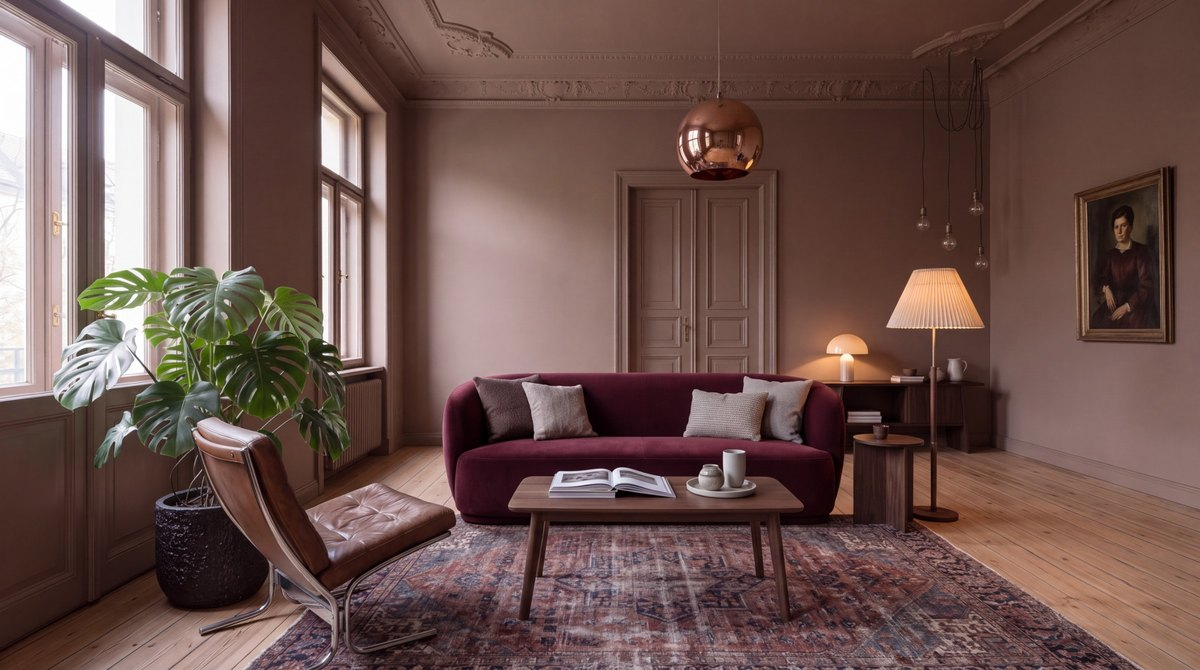
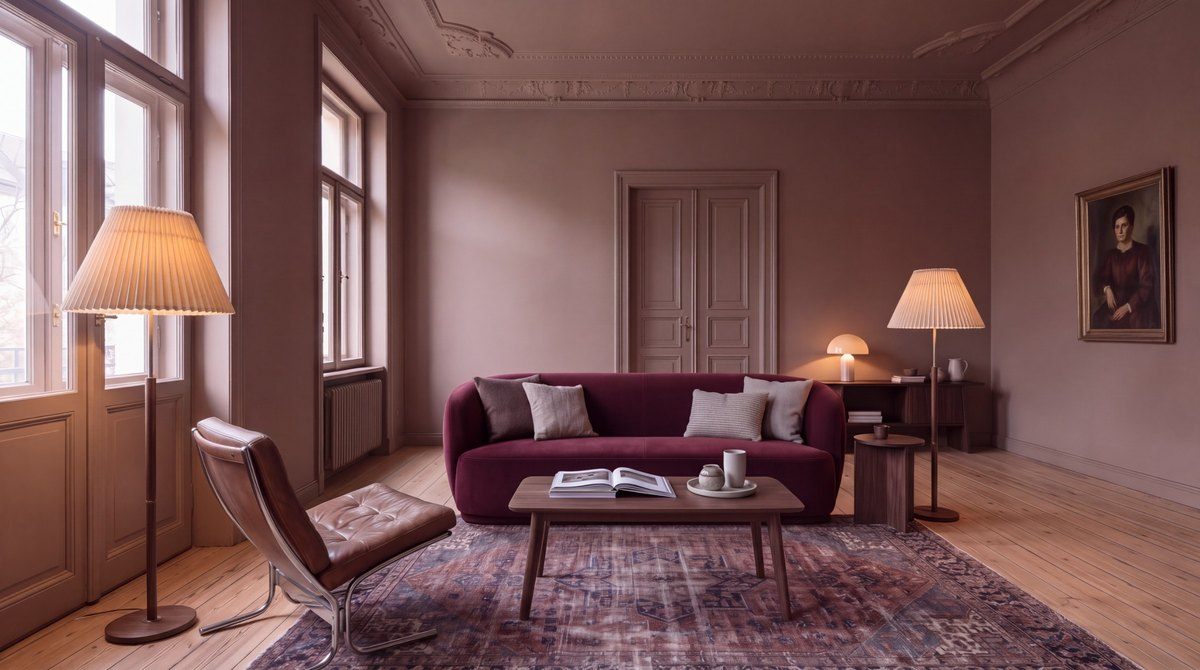
Magazin: Jahrzehnte-2026- und Weihnachten-Bild nachgebessert
Claude-Session: https://claude.ai/code/session_01LahaRAnpmdkz9wijRiE1rf

diff --git a/magazin/weihnachtlich-dekorieren-ohne-kitsch/index.html b/magazin/weihnachtlich-dekorieren-ohne-kitsch/index.html
@@ -12,7 +12,7 @@
 <meta property="og:title" content="Weihnachtlich dekorieren ohne Kitsch">
 <meta property="og:description" content="Gleicher Raum, gleiches Sofa, gleicher Baum in der Ecke. Nur ist es jetzt kein Lager für Weihnachtsdeko mehr, sondern ein Ort für lange Abende.">
 <meta property="og:url" content="https://www.faindz.de/magazin/weihnachtlich-dekorieren-ohne-kitsch/">
-<meta property="og:image" content="https://www.faindz.de/magazin/img/weihnachten-og.jpg?v=hq2">
+<meta property="og:image" content="https://www.faindz.de/magazin/img/weihnachten-og.jpg?v=hq3">
 <meta name="twitter:card" content="summary_large_image">
 <link rel="icon" href="/favicon.ico" sizes="48x48">
 <link rel="icon" type="image/png" sizes="192x192" href="/favicon-192.png">
@@ -21,7 +21,7 @@
 <link rel="preconnect" href="https://fonts.gstatic.com" crossorigin>
 <link href="https://fonts.googleapis.com/css2?family=Inter:wght@300;400;500;600;700;800&family=JetBrains+Mono:wght@400;500&family=Fraunces:opsz,wght,SOFT@9..144,300;9..144,400;9..144,500;9..144,600&display=swap" rel="stylesheet">
 <link rel="stylesheet" href="/magazin/magazin.css?v=20261112a">
-<link rel="preload" as="image" href="/magazin/img/weihnachten-nachher-2400.jpg?v=hq2" imagesrcset="/magazin/img/weihnachten-nachher-1200.jpg?v=hq2 1200w, /magazin/img/weihnachten-nachher-2400.jpg?v=hq2 2400w" imagesizes="100vw">
+<link rel="preload" as="image" href="/magazin/img/weihnachten-nachher-2400.jpg?v=hq3" imagesrcset="/magazin/img/weihnachten-nachher-1200.jpg?v=hq3 1200w, /magazin/img/weihnachten-nachher-2400.jpg?v=hq3 2400w" imagesizes="100vw">
 <script type="application/ld+json">
 {
   "@context": "https://schema.org",
@@ -29,9 +29,9 @@
   "headline": "Weihnachtlich dekorieren ohne Kitsch",
   "description": "Weihnachtsdeko, die gemütlich wirkt statt überladen: warmweißes Licht, zwei Farben, Zweige statt Figuren. Mit Vorher-Nachher und einer Kurzfassung.",
   "image": [
-    "https://www.faindz.de/magazin/img/weihnachten-nachher-2400.jpg?v=hq2",
+    "https://www.faindz.de/magazin/img/weihnachten-nachher-2400.jpg?v=hq3",
     "https://www.faindz.de/magazin/img/weihnachten-vorher-2400.jpg?v=hq2",
-    "https://www.faindz.de/magazin/img/weihnachten-og.jpg?v=hq2"
+    "https://www.faindz.de/magazin/img/weihnachten-og.jpg?v=hq3"
   ],
   "datePublished": "2026-11-24",
   "dateModified": "2026-11-24",
@@ -68,12 +68,12 @@
   <div class="swipe" aria-label="Vorher und Nachher, zum Wechseln wischen">
     <div class="swipe-track">
       <figure class="swipe-slide before-slide"><img src="/magazin/img/weihnachten-vorher-1200.jpg?v=hq2" alt="Vorher: Wohnzimmer mit bunten Lichterketten, Lametta, rotem Tischtuch, Plastik-Weihnachtsmann, Rentierkissen und einem überladenen rot-goldenen Baum unter grellem Deckenlicht" width="1200" height="670" loading="lazy"><figcaption class="swipe-tag">Vorher</figcaption></figure>
-      <figure class="swipe-slide after"><img src="/magazin/img/weihnachten-nachher-1200.jpg?v=hq2" alt="Nachher: dasselbe Wohnzimmer mit schlankem Baum in einem Korb, nur warmweißen Lichtern, Kerzen auf einem Holztablett, Tannenzweigen in einer Glasvase und Leinenkissen in Creme, Salbei und Rost" width="1200" height="670" loading="lazy"><figcaption class="swipe-tag">Nachher</figcaption></figure>
+      <figure class="swipe-slide after"><img src="/magazin/img/weihnachten-nachher-1200.jpg?v=hq3" alt="Nachher: dasselbe Wohnzimmer mit schlankem Baum in einem Korb, nur warmweißen Lichtern, Kerzen auf einem Holztablett, Tannenzweigen in einer Glasvase und Leinenkissen in Creme, Salbei und Rost" width="1200" height="670" loading="lazy"><figcaption class="swipe-tag">Nachher</figcaption></figure>
     </div>
     <div class="swipe-nav"><button type="button" aria-pressed="true" data-i="0">Vorher</button><button type="button" aria-pressed="false" data-i="1">Nachher</button></div>
   </div>
   <section class="cover" data-cover aria-label="Vorher-Nachher-Vergleich">
-    <img src="/magazin/img/weihnachten-nachher-2400.jpg?v=hq2" srcset="/magazin/img/weihnachten-nachher-1200.jpg?v=hq2 1200w, /magazin/img/weihnachten-nachher-2400.jpg?v=hq2 2400w" sizes="100vw" alt="Nachher: dasselbe Wohnzimmer mit schlankem Baum in einem Korb, nur warmweißen Lichtern, Kerzen auf einem Holztablett, Tannenzweigen in einer Glasvase und Leinenkissen in Creme, Salbei und Rost" width="2400" height="1340">
+    <img src="/magazin/img/weihnachten-nachher-2400.jpg?v=hq3" srcset="/magazin/img/weihnachten-nachher-1200.jpg?v=hq3 1200w, /magazin/img/weihnachten-nachher-2400.jpg?v=hq3 2400w" sizes="100vw" alt="Nachher: dasselbe Wohnzimmer mit schlankem Baum in einem Korb, nur warmweißen Lichtern, Kerzen auf einem Holztablett, Tannenzweigen in einer Glasvase und Leinenkissen in Creme, Salbei und Rost" width="2400" height="1340">
     <img class="before" src="/magazin/img/weihnachten-vorher-2400.jpg?v=hq2" srcset="/magazin/img/weihnachten-vorher-1200.jpg?v=hq2 1200w, /magazin/img/weihnachten-vorher-2400.jpg?v=hq2 2400w" sizes="100vw" alt="Vorher: Wohnzimmer mit bunten Lichterketten, Lametta, rotem Tischtuch, Plastik-Weihnachtsmann, Rentierkissen und einem überladenen rot-goldenen Baum unter grellem Deckenlicht" width="2400" height="1340">
     <div class="cover-line" aria-hidden="true"></div>
     <input class="cover-range" type="range" min="0" max="100" value="50" aria-label="Vorher-Nachher-Regler">
@@ -238,7 +238,7 @@
   </div>
 
   <section class="try" aria-labelledby="try-title">
-    <img src="/magazin/img/weihnachten-nachher-1200.jpg?v=hq2" alt="" width="1200" height="670" loading="lazy">
+    <img src="/magazin/img/weihnachten-nachher-1200.jpg?v=hq3" alt="" width="1200" height="670" loading="lazy">
     <div class="wrap">
       <h2 id="try-title">Wie sähe das bei dir aus?</h2>
       <p>Wie sähe dein Wohnzimmer weihnachtlich aus? Lade ein Foto hoch und probier es aus.</p>

diff --git a/magazin/wohnzimmer-1980-bis-2026/index.html b/magazin/wohnzimmer-1980-bis-2026/index.html
@@ -12,7 +12,7 @@
 <meta property="og:title" content="Ein Wohnzimmer, 46 Jahre">
 <meta property="og:description" content="Derselbe Raum von den 80ern bis 2026. Was jede Ära ausgemacht hat und was davon heute zurück ist.">
 <meta property="og:url" content="https://www.faindz.de/magazin/wohnzimmer-1980-bis-2026/">
-<meta property="og:image" content="https://www.faindz.de/magazin/img/jahrzehnte-og.jpg?v=hq2">
+<meta property="og:image" content="https://www.faindz.de/magazin/img/jahrzehnte-og.jpg?v=hq3">
 <meta name="twitter:card" content="summary_large_image">
 <link rel="icon" href="/favicon.ico" sizes="48x48">
 <link rel="icon" type="image/png" sizes="192x192" href="/favicon-192.png">
@@ -28,7 +28,7 @@
   "@type": "Article",
   "headline": "Ein Wohnzimmer, 46 Jahre: Interior Design von 1980 bis 2026",
   "description": "Derselbe Raum, eingerichtet wie in den 80ern, 90ern, 2000ern, 2010ern, den frühen 2020ern und 2026. Was jede Ära ausgemacht hat und was davon heute wieder zurück ist.",
-  "image": ["https://www.faindz.de/magazin/img/jahrzehnte-1980-2400.jpg?v=hq2", "https://www.faindz.de/magazin/img/jahrzehnte-2026-2400.jpg?v=hq2", "https://www.faindz.de/magazin/img/jahrzehnte-og.jpg?v=hq2"],
+  "image": ["https://www.faindz.de/magazin/img/jahrzehnte-1980-2400.jpg?v=hq2", "https://www.faindz.de/magazin/img/jahrzehnte-2026-2400.jpg?v=hq3", "https://www.faindz.de/magazin/img/jahrzehnte-og.jpg?v=hq3"],
   "datePublished": "2026-10-29",
   "dateModified": "2026-10-29",
   "inLanguage": "de-DE",
@@ -60,7 +60,7 @@
       <img data-era="2000" src="/magazin/img/jahrzehnte-2000-1200.jpg?v=hq2" srcset="/magazin/img/jahrzehnte-2000-1200.jpg?v=hq2 1200w, /magazin/img/jahrzehnte-2000-2400.jpg?v=hq2 2400w" sizes="100vw" alt="Das Wohnzimmer in den 2000ern: schokobraune Wand, Wenge-Boden, cremefarbenes Ledersofa, Hochflorteppich, Buddha und Bambus" width="2400" height="1757" loading="lazy">
       <img data-era="2010" src="/magazin/img/jahrzehnte-2010-1200.jpg?v=hq2" srcset="/magazin/img/jahrzehnte-2010-1200.jpg?v=hq2 1200w, /magazin/img/jahrzehnte-2010-2400.jpg?v=hq2 2400w" sizes="100vw" alt="Das Wohnzimmer in den 2010ern: weiße Wände, graues Skandi-Sofa, karierte Kissen, Schalenstuhl, Kupferleuchte, Monstera" width="2400" height="1757" loading="lazy">
       <img data-era="2020" src="/magazin/img/jahrzehnte-2020-1200.jpg?v=hq2" srcset="/magazin/img/jahrzehnte-2020-1200.jpg?v=hq2 1200w, /magazin/img/jahrzehnte-2020-2400.jpg?v=hq2 2400w" sizes="100vw" alt="Das Wohnzimmer Anfang der 2020er: geschwungenes Bouclé-Sofa, salbeigrüner Bogen an der Wand, Travertintisch, Pampasgras" width="2400" height="1757" loading="lazy">
-      <img data-era="2026" src="/magazin/img/jahrzehnte-2026-1200.jpg?v=hq2" srcset="/magazin/img/jahrzehnte-2026-1200.jpg?v=hq2 1200w, /magazin/img/jahrzehnte-2026-2400.jpg?v=hq2 2400w" sizes="100vw" alt="Das Wohnzimmer 2026: mokkabraune Wände, Samtsofa in Bordeaux, Vintage-Ledersessel mit Chrom, Nussbaumtisch, Vintage-Teppich" width="2400" height="1757" loading="lazy">
+      <img data-era="2026" src="/magazin/img/jahrzehnte-2026-1200.jpg?v=hq3" srcset="/magazin/img/jahrzehnte-2026-1200.jpg?v=hq3 1200w, /magazin/img/jahrzehnte-2026-2400.jpg?v=hq3 2400w" sizes="100vw" alt="Das Wohnzimmer 2026: mokkabraune Wände, Samtsofa in Bordeaux, Vintage-Ledersessel mit Chrom, Nussbaumtisch, Vintage-Teppich" width="2400" height="1757" loading="lazy">
       <span class="era-year" aria-live="polite">80er</span>
     </div>
     <div class="era-text">
@@ -208,7 +208,7 @@
       <p>Holz wird wieder dunkler: Nussbaum statt heller Eiche. Möbel sind weiterhin rund und niedrig, aber gern mit Vintage-Charakter. Ein Ledersessel mit Chromgestell, ein alter Orientteppich, ein Ölbild aus dem Second-Hand-Laden. Der Raum soll aussehen, als sei er über Jahre gewachsen, nicht an einem Nachmittag bestellt. Weniger, aber bessere Stücke ist der Gedanke dahinter.</p>
     </div>
     <figure class="era-fig">
-      <img src="/magazin/img/jahrzehnte-2026-1200.jpg?v=hq2" srcset="/magazin/img/jahrzehnte-2026-1200.jpg?v=hq2 1200w, /magazin/img/jahrzehnte-2026-2400.jpg?v=hq2 2400w" sizes="(max-width: 1000px) 100vw, 1000px" alt="Das Wohnzimmer 2026: mokkabraune Wände, Samtsofa in Bordeaux, Vintage-Ledersessel mit Chrom, Nussbaumtisch, Vintage-Teppich" width="2400" height="1757" loading="lazy">
+      <img src="/magazin/img/jahrzehnte-2026-1200.jpg?v=hq3" srcset="/magazin/img/jahrzehnte-2026-1200.jpg?v=hq3 1200w, /magazin/img/jahrzehnte-2026-2400.jpg?v=hq3 2400w" sizes="(max-width: 1000px) 100vw, 1000px" alt="Das Wohnzimmer 2026: mokkabraune Wände, Samtsofa in Bordeaux, Vintage-Ledersessel mit Chrom, Nussbaumtisch, Vintage-Teppich" width="2400" height="1757" loading="lazy">
       <figcaption>2026: mokkabraune Wände, Samtsofa in Bordeaux, Vintage-Ledersessel mit Chrom, Nussbaum und ein alter Teppich.</figcaption>
     </figure>
     <div class="prose">
@@ -330,7 +330,7 @@
   </div>
 
   <section class="try" aria-labelledby="try-title">
-    <img src="/magazin/img/jahrzehnte-2026-1200.jpg?v=hq2" alt="" width="1200" height="879" loading="lazy">
+    <img src="/magazin/img/jahrzehnte-2026-1200.jpg?v=hq3" alt="" width="1200" height="879" loading="lazy">
     <div class="wrap">
       <h2 id="try-title">Welche Epoche steckt in deinem Raum?</h2>
       <p>Foto hochladen, Stil wählen, fertig. Du siehst dein Wohnzimmer neu eingerichtet, mit passenden Produkten.</p>

diff --git a/magazin/index.html b/magazin/index.html
@@ -72,7 +72,7 @@
     <h2 id="articles-title">Alle Artikel</h2>
     <div class="card-grid">
       <a class="card" href="/magazin/weihnachtlich-dekorieren-ohne-kitsch/">
-        <img src="/magazin/img/weihnachten-nachher-1200.jpg?v=hq2" alt="Wohnzimmer mit schlankem Baum im Korb, warmweißen Lichtern, Kerzen auf einem Holztablett und Leinenkissen in Creme, Salbei und Rost" width="1200" height="670" loading="lazy">
+        <img src="/magazin/img/weihnachten-nachher-1200.jpg?v=hq3" alt="Wohnzimmer mit schlankem Baum im Korb, warmweißen Lichtern, Kerzen auf einem Holztablett und Leinenkissen in Creme, Salbei und Rost" width="1200" height="670" loading="lazy">
         <span class="topic">Weihnachten</span>
         <span class="title">Weihnachtlich dekorieren ohne Kitsch</span>
         <span class="dek">Gleicher Raum, gleiches Sofa. Nur ist es jetzt kein Lager für Weihnachtsdeko mehr, sondern ein Ort für lange Abende.</span>
